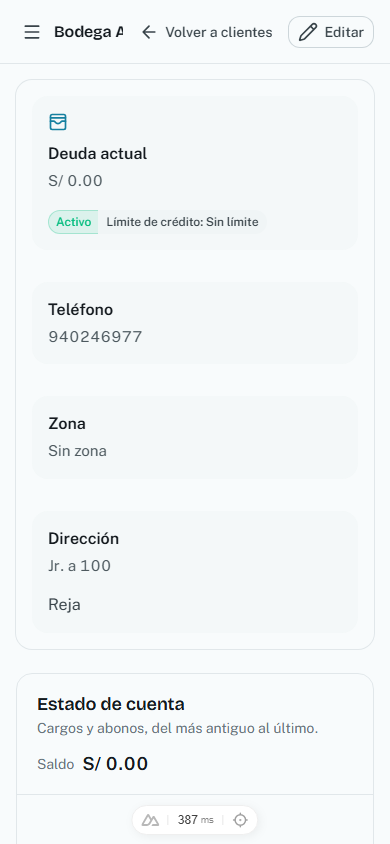
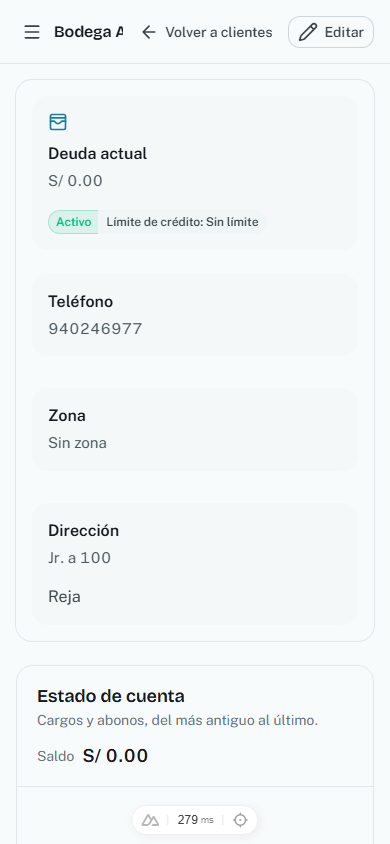
fix(web): prevent customer debt card overflow

diff --git a/apps/web-nuxt/app/pages/customers/[id]/index.vue b/apps/web-nuxt/app/pages/customers/[id]/index.vue
@@ -58,7 +58,7 @@ async function onStatementChanged(): Promise<void> {
         <UPageSection as="div" orientation="horizontal">
           <template #body>
             <UCard as="section" aria-label="Datos del cliente">
-              <UPageGrid>
+              <UPageBody>
                 <UPageCard
                   title="Deuda actual"
                   :description="formatDebtBalance(customer.debtBalance)"
@@ -87,27 +87,29 @@ async function onStatementChanged(): Promise<void> {
                   </template>
                 </UPageCard>
 
-                <UPageCard title="Teléfono" :description="customer.phone" variant="soft" />
-                <UPageCard
-                  title="Zona"
-                  :description="customer.zone?.name ?? 'Sin zona'"
-                  variant="soft"
-                />
-                <UPageCard title="Dirección" variant="soft">
-                  <template #description>
-                    <LinkedText :text="customer.address" />
-                  </template>
-                  <template #footer>
-                    <LinkedText :text="customer.addressReference" />
-                  </template>
-                </UPageCard>
+                <UPageGrid>
+                  <UPageCard title="Teléfono" :description="customer.phone" variant="soft" />
+                  <UPageCard
+                    title="Zona"
+                    :description="customer.zone?.name ?? 'Sin zona'"
+                    variant="soft"
+                  />
+                  <UPageCard title="Dirección" variant="soft">
+                    <template #description>
+                      <LinkedText :text="customer.address" />
+                    </template>
+                    <template #footer>
+                      <LinkedText :text="customer.addressReference" />
+                    </template>
+                  </UPageCard>
+                </UPageGrid>
                 <UPageCard
                   v-if="customer.documentType && customer.documentNumber"
                   :title="`Documento (${customer.documentType})`"
                   :description="customer.documentNumber"
                   variant="soft"
                 >
-                  <UPageGrid v-if="customer.legalName || customer.fiscalAddress">
+                  <UPageBody v-if="customer.legalName || customer.fiscalAddress">
                     <UPageCard
                       v-if="customer.legalName"
                       title="Razón social"
@@ -120,9 +122,9 @@ async function onStatementChanged(): Promise<void> {
                       :description="customer.fiscalAddress"
                       variant="subtle"
                     />
-                  </UPageGrid>
+                  </UPageBody>
                 </UPageCard>
-              </UPageGrid>
+              </UPageBody>
             </UCard>
           </template>
 

diff --git a/apps/web-nuxt/test/unit/nuxt-ui-customers.test.ts b/apps/web-nuxt/test/unit/nuxt-ui-customers.test.ts
@@ -67,4 +67,15 @@ describe("clientes con Nuxt UI nativo", () => {
     expect(addressCard).toContain('<LinkedText :text="customer.address" />');
     expect(addressCard).toContain('<LinkedText :text="customer.addressReference" />');
   });
+
+  it("deja la deuda fuera del grid compacto de datos", () => {
+    const detail = templateOf("../../app/pages/customers/[id]/index.vue");
+    const overview = detail.slice(
+      detail.indexOf('aria-label="Datos del cliente"'),
+      detail.indexOf("<CustomerAccountStatementSection"),
+    );
+
+    expect(overview).toMatch(/<UPageBody>\s*<UPageCard\s+title="Deuda actual"/);
+    expect(overview.indexOf('title="Deuda actual"')).toBeLessThan(overview.indexOf("<UPageGrid>"));
+  });
 });

diff --git a/.relay/RELEVO.md b/.relay/RELEVO.md
@@ -3,6 +3,6 @@
 status: in-progress
 item: Fase 3 — 9. Panel por rol y solo Nuxt UI (goal en .relay/goals/fase3-9-nuxt-ui-y-panel.md)
 branch: refactor/nuxt-ui-customers
-last-step: Correcciones revalidadas: web 63 archivos y 678 tests verdes con cobertura 90.19/83.61/89.87/91.62 usando cuatro workers; lint, typecheck y build completos verdes.
-next-step: Pedir al reviewer que verifique las correcciones; con aprobación explícita, abrir el PR.
-updated: 2026-10-15T14:37:29-05:00 por Codex (relevo)
+last-step: Nuevo hallazgo visual resuelto con TDD (43/43): la deuda salió del grid compacto; badge largo verificado dentro de la tarjeta, móvil sin overflow y captura de detalle rehecha a 1280×720.
+next-step: Revalidar el cambio final y pedir aprobación explícita del reviewer; luego abrir el PR.
+updated: 2026-10-15T14:42:53-05:00 por Codex (relevo)
